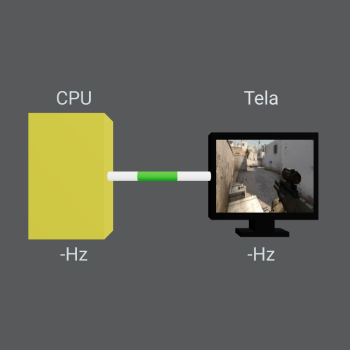
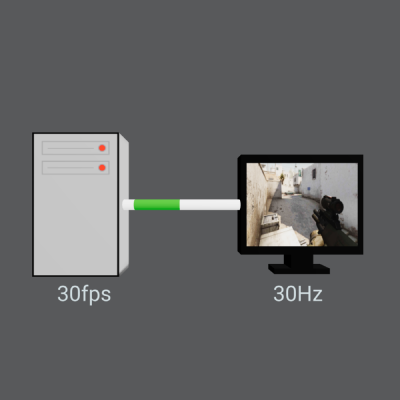
perf(VSync): got the texture right for the objects and added the logic to the animations.

Changed region(s): [[0.0571, 0.2571, 0.9143, 0.7714], [0.6857, 0.7143, 0.8, 0.7714], [0.6857, 0.2571, 0.8, 0.3143]]

diff --git a/src/components/organisms/VSync/index.js b/src/components/organisms/VSync/index.js
@@ -5,8 +5,11 @@ import { OrbitControls } from '@react-three/drei';
 import { Text } from "troika-three-text";
 import fonts from "./fonts";
 
-import Box from '../../atoms/Box';
+import imgComputer from '../../../images/v-sync/computer_cover.png';
+import imgComputerSides from '../../../images/v-sync/computer_sides.png';
+
 import Header from '../../atoms/Header';
+import TexturedBox from '../../atoms/TexturedBox';
 import CylinderFlow from '../../molecules/CylinderFlow';
 import MonitorScreen from '../../molecules/MonitorScreen';
 import SideMenu from '../../molecules/SideMenu';
@@ -14,8 +17,8 @@ import SideMenu from '../../molecules/SideMenu';
 extend({ Text });
 
 const VSync = () => {
-    const [fps, setFps] = useState(0);
-    const [monitorHz, setMonitorHz] = useState(0);
+    const [fps, setFps] = useState(30);
+    const [monitorHz, setMonitorHz] = useState(30);
     const [vSync, setVSync] = useState(false);
 
     const opts = {
@@ -31,8 +34,13 @@ const VSync = () => {
     };
 
     function updateFrames(monitor, computer) {
-        setFps(computer);
         setMonitorHz(monitor);
+
+        if (vSync) {
+            setFps(monitor);
+        } else {
+            setFps(computer);
+        }
     };
 
     return (
@@ -46,19 +54,25 @@ const VSync = () => {
                         <pointLight position={[10, 10, 10]} />
                         <CylinderFlow rotation-z={Math.PI / 2} position={[0, 0, 0]} size={[0.1, 0.1, 2.5, 30]} color='#1a9b1c' speed={fps} />
 
-                        <text text={"CPU"} position={[-3, 2.5, 0]} {...opts} font={fonts[opts.font]} anchorX="center" anchorY="middle">
-                            {opts.materialType === "MeshPhongMaterial" ? (<meshPhongMaterial attach="material" color={opts.color} />) : null}
-                        </text>
-                        <Box position={[-3, 0, 0]} size={[1.5, 2.5, 0.5]} color='#a8a010' />
-                        <text text={`${fps}Hz`} position={[-3, -2.5, 0]} {...opts} font={fonts[opts.font]} anchorX="center" anchorY="middle">
+                        <TexturedBox position={[-3, 0, 0]} size={[1.5, 2.5, 0.5]} color='#cccccc' image={[imgComputer, imgComputerSides, imgComputer]} />
+                        <text
+                            text={`${fps}fps`}
+                            position={[-3, -2.5, 0]}
+                            {...opts}
+                            font={fonts[opts.font]}
+                            anchorX="center"
+                            anchorY="middle">
                             {opts.materialType === "MeshPhongMaterial" ? (<meshPhongMaterial attach="material" color={opts.color} />) : null}
                         </text>
 
-                        <text text={"Tela"} position={[3, 2.5, 0]} {...opts} font={fonts[opts.font]} anchorX="center" anchorY="middle">
-                            {opts.materialType === "MeshPhongMaterial" ? (<meshPhongMaterial attach="material" color={opts.color} />) : null}
-                        </text>
                         <MonitorScreen vSync={vSync} frameRate={monitorHz} fps={fps} />
-                        <text text={`${monitorHz}Hz`} position={[3, -2.5, 0]} {...opts} font={fonts[opts.font]} anchorX="center" anchorY="middle">
+                        <text
+                            text={`${monitorHz}Hz`}
+                            position={[3, -2.5, 0]}
+                            {...opts}
+                            font={fonts[opts.font]}
+                            anchorX="center"
+                            anchorY="middle">
                             {opts.materialType === "MeshPhongMaterial" ? (<meshPhongMaterial attach="material" color={opts.color} />) : null}
                         </text>
 
@@ -69,23 +83,50 @@ const VSync = () => {
                     <div class="select-frequency">
                         <h4>Tela:</h4>
                         <div class="radio-list">
-                            <label><input type="radio" name="screen" value="60" onChange={event => updateFrames(event.target.value, fps)} />60Hz</label>
-                            <label><input type="radio" name="screen" value="70" onChange={event => updateFrames(event.target.value, fps)} />70Hz</label>
-                            <label><input type="radio" name="screen" value="80" onChange={event => updateFrames(event.target.value, fps)} />80Hz</label>
+                            <label>
+                                <input type="radio" name="screen" value="60"
+                                    onChange={event => updateFrames(event.target.value, fps)}
+                                />60Hz</label>
+                            <label>
+                                <input type="radio" name="screen" value="120"
+                                    onChange={event => updateFrames(event.target.value, fps)}
+                                />120Hz</label>
+                            <label>
+                                <input type="radio" name="screen" value="144"
+                                    onChange={event => updateFrames(event.target.value, fps)}
+                                />144Hz</label>
                         </div>
                     </div>
                     <div class="select-frequency">
                         <h4>Computador:</h4>
                         <div class="radio-list">
-                            <label><input type="radio" name="computer" value="60" onChange={event => updateFrames(monitorHz, event.target.value)} />60Hz</label>
-                            <label><input type="radio" name="computer" value="70" onChange={event => updateFrames(monitorHz, event.target.value)} />70Hz</label>
-                            <label><input type="radio" name="computer" value="80" onChange={event => updateFrames(monitorHz, event.target.value)} />80Hz</label>
+                            <label>
+                                <input type="radio" name="computer" value="60"
+                                    onChange={event => updateFrames(monitorHz, event.target.value)}
+                                    disabled={vSync}
+                                    checked={fps === "60"}
+                                />60 fps</label>
+                            <label>
+                                <input type="radio" name="computer" value="120"
+                                    onChange={event => updateFrames(monitorHz, event.target.value)}
+                                    disabled={vSync}
+                                    checked={fps === "120"}
+                                />120 fps</label>
+                            <label>
+                                <input type="radio" name="computer" value="144"
+                                    onChange={event => updateFrames(monitorHz, event.target.value)}
+                                    disabled={vSync}
+                                    checked={fps === "144"}
+                                />144 fps</label>
                         </div>
                     </div>
                     <div class="btn-onoff">
                         <h4>V-Sync:</h4>
                         <label class="switch">
-                            <input type="checkbox" />
+                            <input
+                                type="checkbox"
+                                onChange={event => { setVSync(!vSync); updateFrames(monitorHz, monitorHz) }}
+                            />
                             <span class="slider round"></span>
                         </label>
                     </div>

diff --git a/src/components/molecules/MonitorScreen/index.js b/src/components/molecules/MonitorScreen/index.js
@@ -5,6 +5,7 @@ import { useFrame, useLoader } from '@react-three/fiber';
 import { useSpring, animated } from '@react-spring/three';
 
 import Box from '../../atoms/Box';
+import TexturedBox from '../../atoms/TexturedBox';
 
 import imgTop from '../../../images/v-sync/example_screen_top.png'
 import imgTopIn from '../../../images/v-sync/example_screen_top_zoom_in.png'
@@ -12,46 +13,46 @@ import imgMiddle from '../../../images/v-sync/example_screen_middle.png'
 import imgBottom from '../../../images/v-sync/example_screen_bottom.png'
 import imgBottomIn from '../../../images/v-sync/example_screen_bottom_zoom_in.png'
 
-const TexturedBox = (props) => {
-    const textureNormal = useLoader(THREE.TextureLoader, props.image[0])
-    const textureZoomIn = useLoader(THREE.TextureLoader, props.image[1])
-    // This reference will give us direct access to the THREE.Mesh object
-    const mesh = useRef()
-    // Set up state for the hovered and active state
-    const [hovered, setHover] = useState(false)
-    const [active, setActive] = useState(false)
+// const TexturedBox = (props) => {
+//     const textureNormal = useLoader(THREE.TextureLoader, props.image[0])
+//     const textureZoomIn = useLoader(THREE.TextureLoader, props.image[1])
+//     // This reference will give us direct access to the THREE.Mesh object
+//     const mesh = useRef()
+//     // Set up state for the hovered and active state
+//     const [hovered, setHover] = useState(false)
+//     const [active, setActive] = useState(false)
 
-    const { position } = useSpring({
-        loop: true,
-        position: active ? [props.position[0] + props.move, props.position[1], props.position[2]] : props.position,
-    })
-    // Subscribe this component to the render-loop, rotate the mesh every frame
-    useFrame((state, delta) => (mesh.current.rotation.x))
-    // Return the view, these are regular Threejs elements expressed in JSX
-    return (
-        <animated.mesh
-            {...props}
-            position={props.move ? position : props.position}
-            ref={mesh}
-            scale={1.5}
-            onClick={(event) => setActive(!active)}
-            onPointerOver={(event) => setHover(true)}
-            onPointerOut={(event) => setHover(false)}>
-            <boxGeometry args={props.size} />
-            <meshBasicMaterial
-                color={hovered ? 'hotpink' : 'white'}
-                attach="material"
-                map={props.active ? (props.sync ? textureNormal : textureZoomIn) : textureNormal}
-                toneMapped={false}
-            />
-        </animated.mesh>
-    )
-}
+//     const { position } = useSpring({
+//         loop: true,
+//         position: active ? [props.position[0] + props.move, props.position[1], props.position[2]] : props.position,
+//     })
+//     // Subscribe this component to the render-loop, rotate the mesh every frame
+//     useFrame((state, delta) => (mesh.current.rotation.x))
+//     // Return the view, these are regular Threejs elements expressed in JSX
+//     return (
+//         <animated.mesh
+//             {...props}
+//             position={props.move ? position : props.position}
+//             ref={mesh}
+//             scale={1.5}
+//             onClick={(event) => setActive(!active)}
+//             onPointerOver={(event) => setHover(true)}
+//             onPointerOut={(event) => setHover(false)}>
+//             <boxGeometry args={props.size} />
+//             <meshBasicMaterial
+//                 color={hovered ? 'hotpink' : 'white'}
+//                 attach="material"
+//                 map={props.active ? (props.sync ? textureNormal : textureZoomIn) : textureNormal}
+//                 toneMapped={false}
+//             />
+//         </animated.mesh>
+//     )
+// }
 
 
 const MonitorScreen = (props) => {
     const [sync, setSync] = useState(props.fps === props.frameRate);
-    const [frameRate, setFrameRate] = useState(1000 - props.frameRate);
+    const [frameRate, setFrameRate] = useState(500 - props.frameRate);
     const [active, setActive] = useState(false);
 
     useEffect(() => {
@@ -73,9 +74,9 @@ const MonitorScreen = (props) => {
             <Box position={[4.5, 0, 0]} size={[0.2, 1.6, 0.25]} color='#000000' />{/* screen right */}
             <Box position={[3, -1.5, 0]} size={[0.4, 0.4, 0.25]} color='#000000' />{/* stand */}
             <Box position={[3, -1.8, 0]} size={[1, 0.1, 0.25]} color='#000000' />{/* stand base */}
-            <TexturedBox position={[3, 0.75, 0]} size={[2, 0.5, 0.25]} color='#F2CF63' image={[imgTop, imgTopIn]} scale={-0.1} active={active} sync={sync} />
-            <TexturedBox position={[3, 0, 0]} size={[2, 0.5, 0.25]} color='#F2CF63' image={[imgMiddle, imgMiddle]} />
-            <TexturedBox position={[3, -0.75, 0]} size={[2, 0.5, 0.25]} color='#F2CF63' image={[imgBottom, imgBottomIn]} scale={0.1} active={active} sync={sync} />
+            <TexturedBox position={[3, 0.75, 0]} size={[2, 0.5, 0.25]} color='#F2CF63' image={[imgTop, imgTop, imgTopIn]} scale={-0.1} active={active} sync={sync} />
+            <TexturedBox position={[3, 0, 0]} size={[2, 0.5, 0.25]} color='#F2CF63' image={[imgMiddle, imgMiddle, imgMiddle]} />
+            <TexturedBox position={[3, -0.75, 0]} size={[2, 0.5, 0.25]} color='#F2CF63' image={[imgBottom, imgBottom, imgBottomIn]} scale={0.1} active={active} sync={sync} />
         </>
     )
 }

diff --git a/src/components/atoms/TexturedBox/index.js b/src/components/atoms/TexturedBox/index.js
@@ -4,7 +4,10 @@ import { useFrame, useLoader } from '@react-three/fiber';
 import { useSpring, animated } from '@react-spring/three';
 
 const TexturedBox = (props) => {
-    const texture = useLoader(THREE.TextureLoader, props.image)
+    const textureNormal = useLoader(THREE.TextureLoader, props.image[0])
+    const textureSides = useLoader(THREE.TextureLoader, props.image[1])
+    const textureZoomIn = useLoader(THREE.TextureLoader, props.image[2])
+
     // This reference will give us direct access to the THREE.Mesh object
     const mesh = useRef()
     // Set up state for the hovered and active state
@@ -23,12 +26,21 @@ const TexturedBox = (props) => {
             {...props}
             position={props.move ? position : props.position}
             ref={mesh}
-            scale={active ? (1.5 + props.scale) : 1.5}
+            scale={1.5}
             onClick={(event) => setActive(!active)}
             onPointerOver={(event) => setHover(true)}
             onPointerOut={(event) => setHover(false)}>
             <boxGeometry args={props.size} />
-            <meshBasicMaterial color={hovered ? 'hotpink' : 'white'} attach="material" map={texture} toneMapped={false} />
+            <meshStandardMaterial map={textureSides} attachArray="material" />
+            <meshStandardMaterial map={textureSides} attachArray="material" />
+            <meshStandardMaterial map={textureSides} attachArray="material" />
+            <meshStandardMaterial map={textureSides} attachArray="material" />
+            <meshStandardMaterial
+                map={props.active ? (props.sync ? textureNormal : textureZoomIn) : textureNormal}
+                attachArray="material"
+                color={hovered ? 'hotpink' : 'white'}
+            />
+            <meshStandardMaterial map={textureSides} attachArray="material" />
         </animated.mesh>
     )
 }
